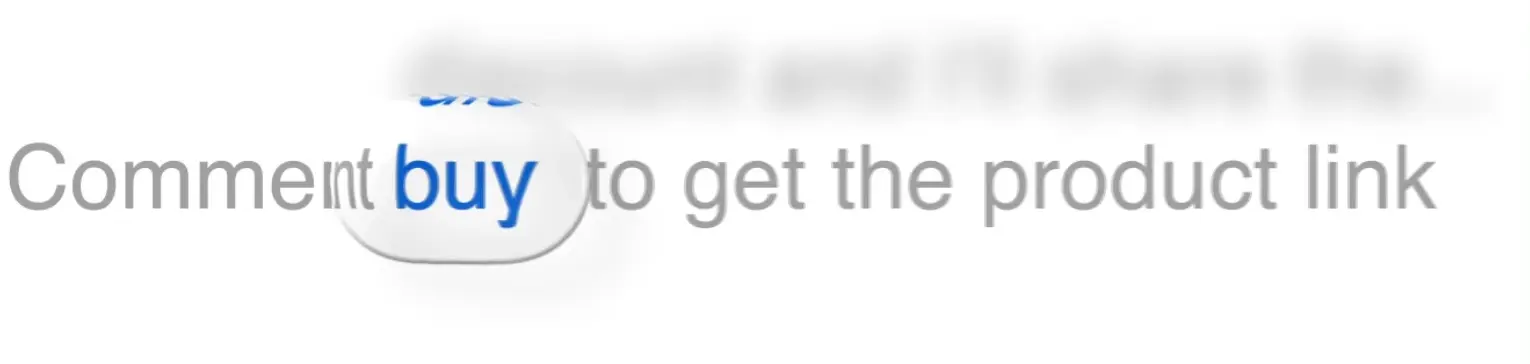
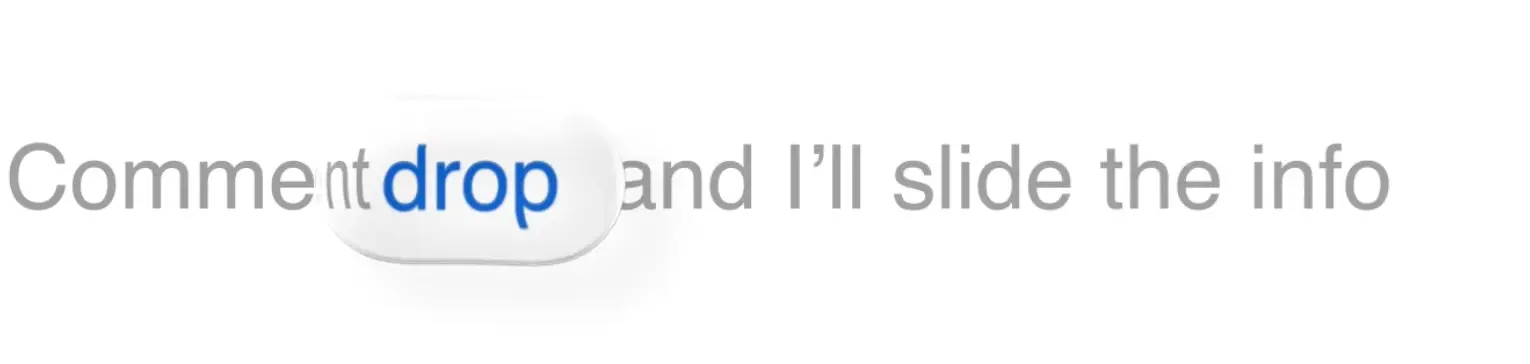
Blend the keyword video into both hero themes

Changed region(s): [[0.1843, 0.3929, 0.9523, 0.7555], [0.2458, 0.1511, 0.6144, 0.3022], [0.6451, 0.1209, 0.9216, 0.3022]]

diff --git a/components/website/home-hero.module.css b/components/website/home-hero.module.css
@@ -25,13 +25,13 @@
   --hero-border: rgba(204, 183, 245, .14);
   --hero-accent: #c4a1ff;
 }
-.glow { position: absolute; z-index: -1; inset: 0; pointer-events: none; background: radial-gradient(ellipse at 50% 28%, rgba(139,92,246,.075), transparent 60%), radial-gradient(ellipse at 85% 90%, rgba(236,72,153,.05), transparent 38%); }
+.glow { position: absolute; z-index: -2; inset: 0; pointer-events: none; background: radial-gradient(ellipse at 50% 28%, rgba(139,92,246,.075), transparent 60%), radial-gradient(ellipse at 85% 90%, rgba(236,72,153,.05), transparent 38%); }
 :global(.dark) .glow { background: radial-gradient(ellipse at 50% 25%, rgba(124,58,237,.16), transparent 62%), radial-gradient(ellipse at 90% 90%, rgba(236,72,153,.065), transparent 38%); }
-.content { position: relative; z-index: 2; max-width: 885px; margin: auto; }
+.content { position: relative; z-index: auto; max-width: 885px; margin: auto; }
 .keywordAnimation { display: flex; justify-content: flex-start; padding: 12px 0 20px; }
 .keywordVideo { display: block; width: auto; max-width: 100%; height: 90px; object-fit: contain; object-position: left center; mix-blend-mode: multiply; filter: hue-rotate(43deg); }
 :global(.dark) .keywordVideo { mix-blend-mode: screen; filter: invert(1) hue-rotate(223deg); }
-.title { margin: 0; font-size: 32px; font-weight: 700; letter-spacing: -.025em; }
+.title { margin: 0; font-size: 32px; font-weight: 700; letter-spacing: normal; }
 .title > span { display: block; color: var(--hero-muted); line-height: 1.25; }
 .title strong { display: block; font-weight: 700; line-height: 1.5; background: linear-gradient(100deg, #652ac5 12%, #9b43d3 56%, #d7448e 100%); background-clip: text; -webkit-background-clip: text; color: transparent; }
 :global(.dark) .title strong { background-image: linear-gradient(100deg, #d6c1ff 12%, #e5b5ff 56%, #ffb8d4 100%); }
@@ -45,7 +45,7 @@
 .portraits { display: block; width: auto; height: 36px; max-width: 100%; object-fit: contain; }
 .api { display: flex; align-items: center; justify-content: flex-start; gap: 8px; margin: 34px 0 28px; min-height: 38px; font-size: 16px; font-weight: 600; }
 .api svg { color: var(--hero-accent); flex-shrink: 0; }
-.scene { display: none; position: absolute; inset: 0; z-index: 1; pointer-events: none; }
+.scene { display: none; position: absolute; inset: 0; z-index: -1; pointer-events: none; }
 .wing { position: absolute; top: 90px; width: 388.53px; height: 399.43px; translate: 0 calc(var(--scroll) * 1px); }
 .left { left: -50px; transform: scaleX(-1); }
 .right { right: -50px; }
